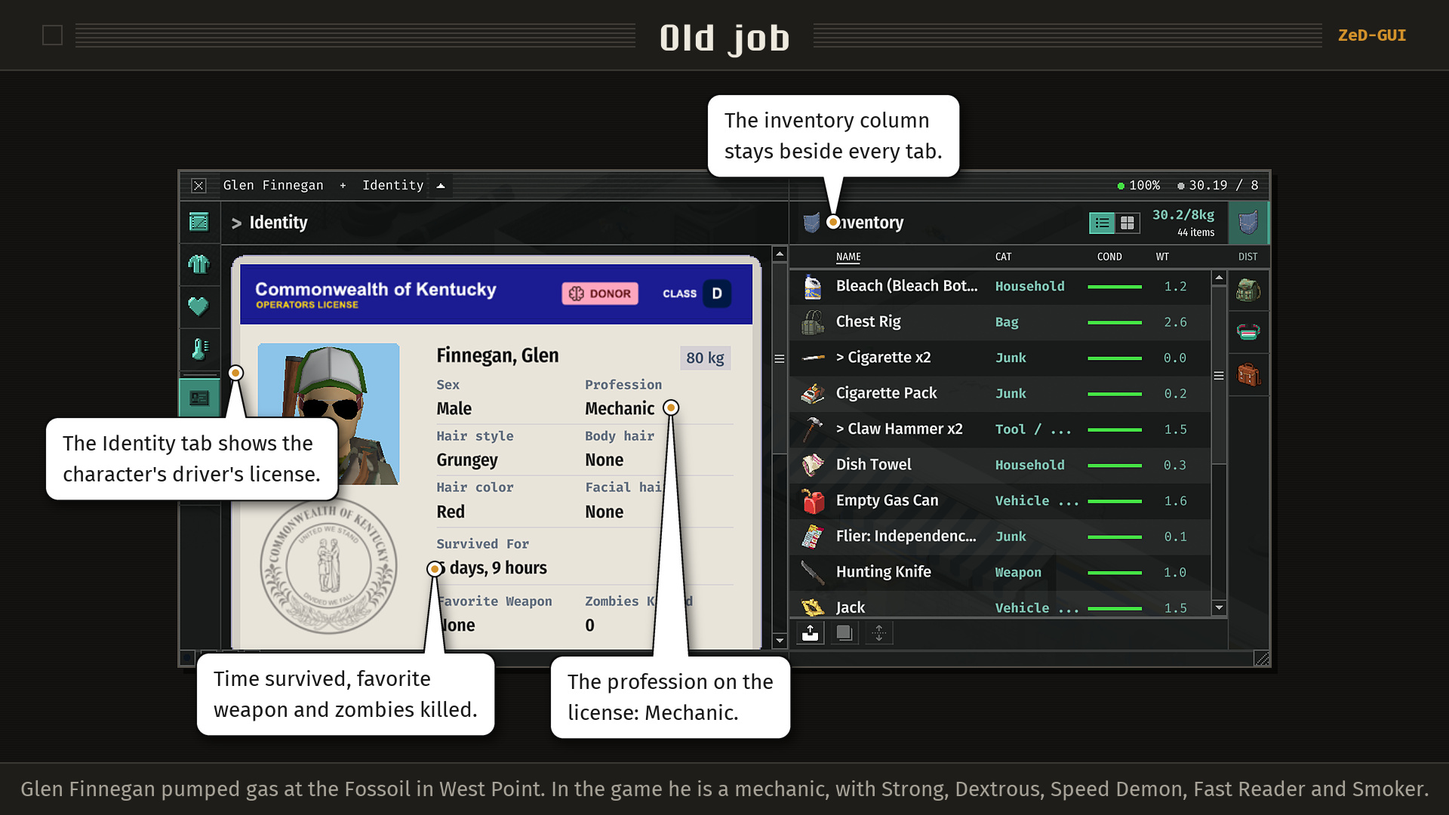
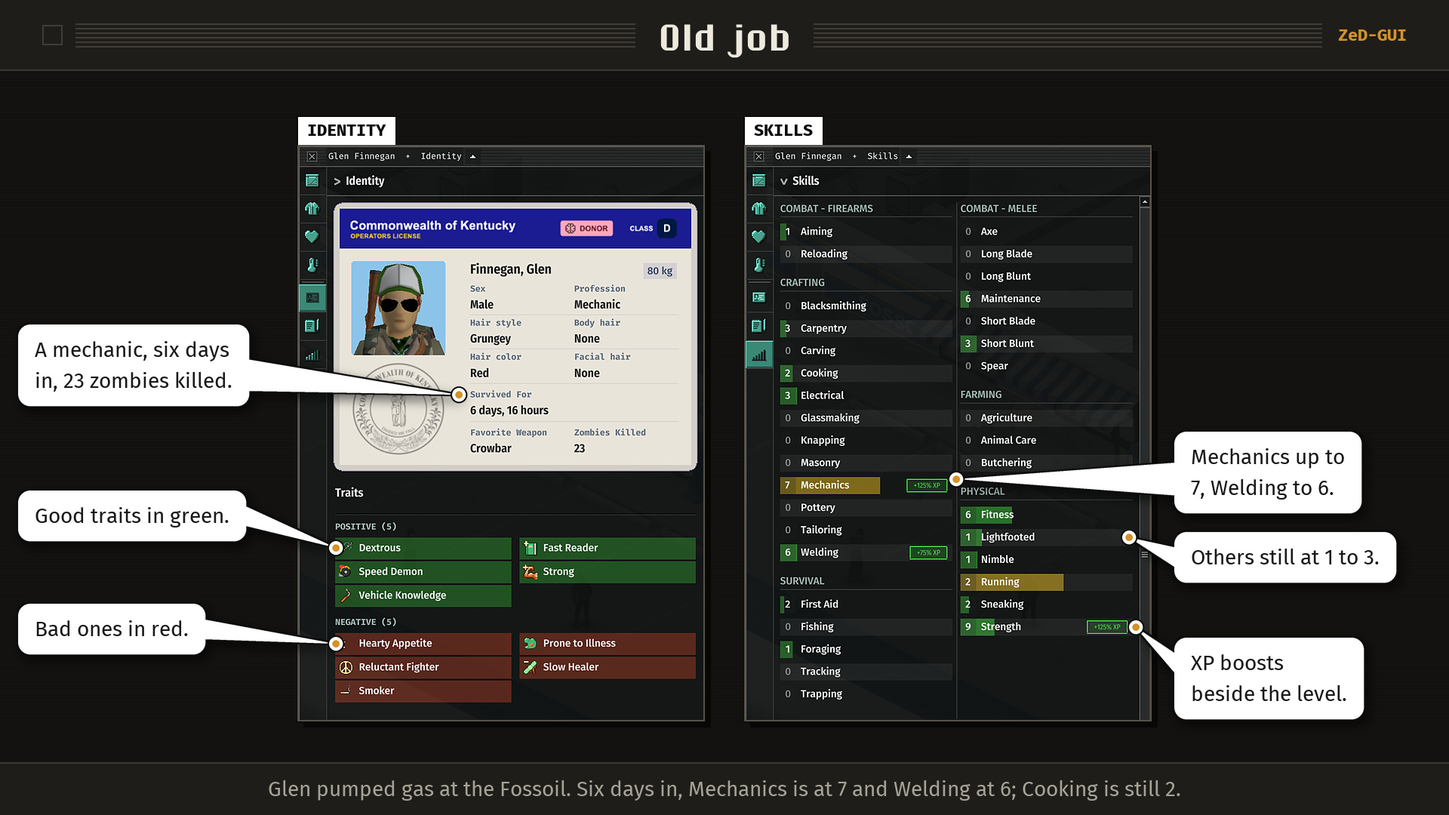
Workshop gallery: Old job card shows the traits and the skills
Director, Oct 22: "if we are talking about it, we show it." The card talked
about traits and a mechanic's skills but showed only the license.

- gallery_story_who.lua (new): runs between the story stage and teardown.
  Gives Glen six days' worth of skills (Mechanics 7, Welding and Maintenance 6,
  Fitness 6, the rest 1 to 3), 23 kills and the Crowbar, makes the Character
  window tall enough for the whole list, takes story_00a_identity_tall and
  story_00b_skills_tall, then puts the height, kills and favorite back.
- shots.json: old_job is now two crops, IDENTITY and SKILLS, with six balloons
  in the margins (traits green and red, Mechanics 7, the rest 1 to 3, XP
  boosts) and a caption that fits the strip.
- out/02_old_job.jpg, contact.png, zed_workshop_page_v3.html rebuilt.

Claude-Session: https://claude.ai/code/session_015Lv8fXDH1kuxg46sEw6iLh

diff --git a/ZeDUI/mockups/zed_workshop_page_v3.html b/ZeDUI/mockups/zed_workshop_page_v3.html
@@ -165,7 +165,7 @@ the tester build's text. Click any picture to see it full size.</p>
 <div class="lb" id="lb"><img id="lbimg" alt=""></div>
 
 <script>
-const D = {"layout": "[img]IMG_BASE/title.png[/img]\nZeD-GUI replaces the inventory, the character and loot windows, the HUD and the menus for Build 42. The style is based on a 1993 Mac. It works with a controller and with a mouse and keyboard.\n\n[img]IMG_BASE/hero.jpg[/img]\n\n[img]IMG_BASE/h_before_you_subscribe.png[/img]\n[list]\n[*][b]Build 42 only.[/b] Tested on 42.21. It does not run on Build 41.\n[*][b]Tested in single player.[/b] It has not been tested in multiplayer. If you try it on a server, report what happened.\n[*][b]It replaces the game's inventory and character windows.[/b] Buttons that other mods add to those windows do not show while ZeD-GUI is on. Mods that use the game's own systems (context menu options, container buttons, items, recipes) work. The compatibility discussion has the list.\n[*][b]It adds one item:[/b] a steel digital watch in the loot. If you remove ZeD-GUI from a save, those watches are removed too. Everything else is interface and can be added or removed at any time.\n[*][b]Text is in English.[/b] Where the game already has a word or phrase, ZeD-GUI uses the game's translation. ZeD-GUI's own text is in one file for translators.\n[/list]\n\n[img]IMG_BASE/h_windows.png[/img]\n[b]Character window.[/b] Tabs for loot, equipment, health, temperature, ID, journal, skills and the radio you carry.\n\n[b]World window.[/b] Tabs for loot, crafting (at a bench or station near you), building, furniture, maps, foraging, animals, radios nearby and the vehicle you are next to.\n\nOpen containers show as columns side by side. Either window's side panel can be rolled up into its title bar.\n\n[img]IMG_BASE/stocking_shelves.jpg[/img]\n\n[b]Cards.[/b] Click an item, a generator, a campfire, a farm plot, a trough, a padlock or a liquid to open its card. The card lists what it is, the actions you can take and the reason an action is not available.\n\n[img]IMG_BASE/item_cards.jpg[/img]\n\n[img]IMG_BASE/h_hud.png[/img]\n[list]\n[*][b]Belt:[/b] your hands, and the attachment slots of the gear you wear, on a strap drawn in the gear's material.\n[*][b]Watch:[/b] a worn watch shows on the belt. Click it for the full watch: time, date, temperature, alarm and stopwatch.\n[*][b]Dashboard:[/b] shows when you drive. The radio in the dashboard opens up close.\n[*][b]Moodles:[/b] placed right, left or above the belt.\n[*][b]Action bar:[/b] shows the current action and the queue in words, or as ten segments.\n[/list]\n\n[img]IMG_BASE/smoke_break.jpg[/img]\n\n[img]IMG_BASE/h_maps.png[/img]\nThree styles: survey, color and a paper road map. Flyers you have read are pinned on the map. Notes use the game's map notes, so they also show on the game's map.\n\n[img]IMG_BASE/the_route.jpg[/img]\n\n[img]IMG_BASE/h_menus.png[/img]\nThe main menu is a desk with a monitor. Load, new game, mods, options, sandbox, character creation and server settings open as windows on the monitor. They use the game's own menu functions. Mods lists conflicts between mods (two mods changing the same file, item or recipe) and which one loads last.\n\n[img]IMG_BASE/desk.jpg[/img]\n\n[img]IMG_BASE/h_controller.png[/img]\nThe controller scheme was designed by a player who plays on a controller.\n[list]\n[*]The D-pad moves between controls. A is left click, B is right click. X and Y open menus.\n[*]Aiming with the right stick hides both windows at once and returns control to the game. Press Y to show them again.\n[*]Camera zoom is a bumper chord: hold one bumper and tap the other. Hold LB and tap RB to zoom out. Hold RB and tap LB to zoom in. Each tap is one step.\n[*]Map: RT zooms in, LT zooms out. The left stick moves the cursor, and pushing it to an edge pans the map.\n[*]If your Steam Input layout binds the bumpers to zoom, remove those bindings. ZeD-GUI handles the zoom itself.\n[/list]\n\n[img]IMG_BASE/customers.jpg[/img]\n\n[img]IMG_BASE/h_options.png[/img]\nDark, light or high contrast theme, nine accent colors, two text sizes, and a UI scale setting. Auto picks the scale from the screen height.\n\n[img]IMG_BASE/themes.jpg[/img]\n\n[img]IMG_BASE/h_getting_started.png[/img]\n[olist]\n[*]Subscribe.\n[*]Main menu, Mods: turn on [b]ZeD-GUI[/b]. Put it after other interface mods in the load order.\n[*]Start or continue a game.\n[*]Options, Mods, ZeD-GUI: set the theme, accent, text size, scale, moodle position and action bar.\n[*]The inventory key opens the Character window. The loot key opens the World window. Controller buttons are the same as in the game.\n[/olist]\n\n[img]IMG_BASE/h_reporting_a_problem.png[/img]\nPost in the [b]Bug reports[/b] discussion. Include:\n[list]\n[*]Your game version and the ZeD-GUI version (the desk's ZeD menu, About).\n[*]Your mod list.\n[*]What you did, what you expected, and what happened. Add a screenshot if you can.\n[*]Your console.txt: [i]C:\\Users\\(you)\\Zomboid\\console.txt[/i] on Windows, [i]~/Zomboid/console.txt[/i] on Linux and macOS. Upload it to a paste site and post the link.\n[/list]\n[b]Safe mode:[/b] if ZeD-GUI stops you from playing, turn on Options, Mods, ZeD-GUI, Safe mode. The game's own screens return.\n\n[img]IMG_BASE/h_requests_add_ons_and_translations.png[/img]\n[list]\n[*][b]Requests:[/b] the Requests discussion.\n[*][b]Add-ons:[/b] the Add-on makers discussion has the guides. Watches can be added now.\n[*][b]Translations:[/b] the Translations discussion. Translating needs text files only.\n[/list]\n\n[img]IMG_BASE/h_server_admins.png[/img]\nWorkshop ID: (after the first upload)\nMod ID: ZeD_UI\n[code]WorkshopItems=(Workshop ID)\nMods=ZeD_UI\\[/code]\nEvery player needs it, because it adds an item.\n\n[img]IMG_BASE/h_credits.png[/img]\nDesign: Hermit. Fonts: Fira Sans and Fira Mono (SIL Open Font License). Icons: sources and licences are listed in the credits file.\n\nProject Zomboid is made by The Indie Stone. ZeD-GUI is a fan-made mod built on the game's own systems, and is not affiliated with The Indie Stone or Apple.\n", "text": "[h1]ZeD-GUI [B42][/h1]\nZeD-GUI replaces the inventory, the character and loot windows, the HUD and the menus for Build 42. The style is based on a 1993 Mac. It works with a controller and with a mouse and keyboard.\n\n[h2]Before you subscribe[/h2]\n[list]\n[*][b]Build 42 only.[/b] Tested on 42.21. It does not run on Build 41.\n[*][b]Tested in single player.[/b] It has not been tested in multiplayer. If you try it on a server, report what happened.\n[*][b]It replaces the game's inventory and character windows.[/b] Buttons that other mods add to those windows do not show while ZeD-GUI is on. Mods that use the game's own systems (context menu options, container buttons, items, recipes) work. The compatibility discussion has the list.\n[*][b]It adds one item:[/b] a steel digital watch in the loot. If you remove ZeD-GUI from a save, those watches are removed too. Everything else is interface and can be added or removed at any time.\n[*][b]Text is in English.[/b] Where the game already has a word or phrase, ZeD-GUI uses the game's translation. ZeD-GUI's own text is in one file for translators.\n[/list]\n\n[h2]Windows[/h2]\n[b]Character window.[/b] Tabs for loot, equipment, health, temperature, ID, journal, skills and the radio you carry.\n\n[b]World window.[/b] Tabs for loot, crafting (at a bench or station near you), building, furniture, maps, foraging, animals, radios nearby and the vehicle you are next to.\n\nOpen containers show as columns side by side. Either window's side panel can be rolled up into its title bar.\n\n[b]Cards.[/b] Click an item, a generator, a campfire, a farm plot, a trough, a padlock or a liquid to open its card. The card lists what it is, the actions you can take and the reason an action is not available.\n\n[h2]HUD[/h2]\n[list]\n[*][b]Belt:[/b] your hands, and the attachment slots of the gear you wear, on a strap drawn in the gear's material.\n[*][b]Watch:[/b] a worn watch shows on the belt. Click it for the full watch: time, date, temperature, alarm and stopwatch.\n[*][b]Dashboard:[/b] shows when you drive. The radio in the dashboard opens up close.\n[*][b]Moodles:[/b] placed right, left or above the belt.\n[*][b]Action bar:[/b] shows the current action and the queue in words, or as ten segments.\n[/list]\n\n[h2]Maps[/h2]\nThree styles: survey, color and a paper road map. Flyers you have read are pinned on the map. Notes use the game's map notes, so they also show on the game's map.\n\n[h2]Menus[/h2]\nThe main menu is a desk with a monitor. Load, new game, mods, options, sandbox, character creation and server settings open as windows on the monitor. They use the game's own menu functions. Mods lists conflicts between mods (two mods changing the same file, item or recipe) and which one loads last.\n\n[h2]Controller[/h2]\nThe controller scheme was designed by a player who plays on a controller.\n[list]\n[*]The D-pad moves between controls. A is left click, B is right click. X and Y open menus.\n[*]Aiming with the right stick hides both windows at once and returns control to the game. Press Y to show them again.\n[*]Camera zoom is a bumper chord: hold one bumper and tap the other. Hold LB and tap RB to zoom out. Hold RB and tap LB to zoom in. Each tap is one step.\n[*]Map: RT zooms in, LT zooms out. The left stick moves the cursor, and pushing it to an edge pans the map.\n[*]If your Steam Input layout binds the bumpers to zoom, remove those bindings. ZeD-GUI handles the zoom itself.\n[/list]\n\n[h2]Options[/h2]\nDark, light or high contrast theme, nine accent colors, two text sizes, and a UI scale setting. Auto picks the scale from the screen height.\n\n[h2]Getting started[/h2]\n[olist]\n[*]Subscribe.\n[*]Main menu, Mods: turn on [b]ZeD-GUI[/b]. Put it after other interface mods in the load order.\n[*]Start or continue a game.\n[*]Options, Mods, ZeD-GUI: set the theme, accent, text size, scale, moodle position and action bar.\n[*]The inventory key opens the Character window. The loot key opens the World window. Controller buttons are the same as in the game.\n[/olist]\n\n[h2]Reporting a problem[/h2]\nPost in the [b]Bug reports[/b] discussion. Include:\n[list]\n[*]Your game version and the ZeD-GUI version (the desk's ZeD menu, About).\n[*]Your mod list.\n[*]What you did, what you expected, and what happened. Add a screenshot if you can.\n[*]Your console.txt: [i]C:\\Users\\(you)\\Zomboid\\console.txt[/i] on Windows, [i]~/Zomboid/console.txt[/i] on Linux and macOS. Upload it to a paste site and post the link.\n[/list]\n[b]Safe mode:[/b] if ZeD-GUI stops you from playing, turn on Options, Mods, ZeD-GUI, Safe mode. The game's own screens return.\n\n[h2]Requests, add-ons and translations[/h2]\n[list]\n[*][b]Requests:[/b] the Requests discussion.\n[*][b]Add-ons:[/b] the Add-on makers discussion has the guides. Watches can be added now.\n[*][b]Translations:[/b] the Translations discussion. Translating needs text files only.\n[/list]\n\n[h2]Server admins[/h2]\nWorkshop ID: (after the first upload)\nMod ID: ZeD_UI\n[code]WorkshopItems=(Workshop ID)\nMods=ZeD_UI\\[/code]\nEvery player needs it, because it adds an item.\n\n[h2]Credits[/h2]\nDesign: Hermit. Fonts: Fira Sans and Fira Mono (SIL Open Font License). Icons: sources and licences are listed in the credits file.\n\nProject Zomboid is made by The Indie Stone. ZeD-GUI is a fan-made mod built on the game's own systems, and is not affiliated with The Indie Stone or Apple.\n", "tester": "[h1]ZeD-GUI [B42] | tester build 0.2.0-t1[/h1]\n[b]This is a test build.[/b] It is unlisted. Report problems in the pinned [b]Bug reports[/b] discussion, one post per problem.\n\nZeD-GUI replaces the inventory, the character and loot windows, the HUD and the menus for Build 42. The style is based on a 1993 Mac. It works with a controller and with a mouse and keyboard.\n\n[h2]Before you subscribe[/h2]\n[list]\n[*][b]Build 42 only.[/b] Tested on 42.21. It does not run on Build 41.\n[*][b]Use a new game or a copy of a save.[/b] This is a test build.\n[*][b]Tested in single player.[/b] It has not been tested in multiplayer. If you try it on a server, report what happened.\n[*][b]It replaces the game's inventory and character windows.[/b] Buttons that other mods add to those windows do not show while ZeD-GUI is on. Mods that use the game's own systems (context menu options, container buttons, items, recipes) work.\n[*][b]It adds one item:[/b] a steel digital watch in the loot. If you remove ZeD-GUI from a save, those watches are removed too. Everything else is interface and can be added or removed at any time.\n[*][b]Text is in English.[/b] Where the game already has a word or phrase, ZeD-GUI uses the game's translation. ZeD-GUI's own text is in one file for translators.\n[/list]\n\n[h2]Windows[/h2]\n[b]Character window.[/b] Tabs for loot, equipment, health, temperature, ID, journal, skills and the radio you carry.\n\n[b]World window.[/b] Tabs for loot, crafting (at a bench or station near you), building, furniture, maps, foraging, animals, radios nearby and the vehicle you are next to.\n\nOpen containers show as columns side by side. Either window's side panel can be rolled up into its title bar.\n\n[b]Cards.[/b] Click an item, a generator, a campfire, a farm plot, a trough, a padlock or a liquid to open its card. The card lists what it is, the actions you can take and the reason an action is not available.\n\n[h2]HUD[/h2]\n[list]\n[*][b]Belt:[/b] your hands, and the attachment slots of the gear you wear, on a strap drawn in the gear's material.\n[*][b]Watch:[/b] a worn watch shows on the belt. Click it for the full watch: time, date, temperature, alarm and stopwatch.\n[*][b]Dashboard:[/b] shows when you drive. The radio in the dashboard opens up close.\n[*][b]Moodles:[/b] placed right, left or above the belt.\n[*][b]Action bar:[/b] shows the current action and the queue in words, or as ten segments.\n[/list]\n\n[h2]Maps[/h2]\nThree styles: survey, color and a paper road map. Flyers you have read are pinned on the map. Notes use the game's map notes, so they also show on the game's map.\n\n[h2]Menus[/h2]\nThe main menu is a desk with a monitor. Load, new game, mods, options, sandbox, character creation and server settings open as windows on the monitor. They use the game's own menu functions.\n\n[h2]Controller[/h2]\nThe controller scheme was designed by a player who plays on a controller.\n[list]\n[*]The D-pad moves between controls. A is left click, B is right click. X and Y open menus.\n[*]Aiming with the right stick hides both windows at once and returns control to the game. Press Y to show them again.\n[*]Camera zoom is a bumper chord: hold one bumper and tap the other. Hold LB and tap RB to zoom out. Hold RB and tap LB to zoom in. Each tap is one step.\n[*]Map: RT zooms in, LT zooms out. The left stick moves the cursor, and pushing it to an edge pans the map.\n[*]If your Steam Input layout binds the bumpers to zoom, remove those bindings. ZeD-GUI handles the zoom itself.\n[/list]\n\n[h2]Options[/h2]\nDark, light or high contrast theme, nine accent colors, two text sizes, and a UI scale setting. Auto picks the scale from the screen height.\n\n[h2]Getting started[/h2]\n[olist]\n[*]Subscribe.\n[*]Main menu, Mods: turn on [b]ZeD-GUI[/b]. Put it after other interface mods in the load order.\n[*]Start a new game, or load a copy of a save.\n[*]Options, Mods, ZeD-GUI: set the theme, accent, text size, scale, moodle position and action bar.\n[*]The inventory key opens the Character window. The loot key opens the World window. Controller buttons are the same as in the game.\n[/olist]\n\n[h2]Reporting a problem[/h2]\nPost in the pinned [b]Bug reports[/b] discussion. Include:\n[list]\n[*]The version: 0.2.0-t1. It is shown in Mods, and in the desk's ZeD menu under About.\n[*]Your game version and your mod list.\n[*]What you did, what you expected, and what happened. Add a screenshot if you can.\n[*]Your console.txt: [i]C:\\Users\\(you)\\Zomboid\\console.txt[/i] on Windows, [i]~/Zomboid/console.txt[/i] on Linux and macOS. The game replaces this file each time it starts, so copy it before you restart. Upload it to a paste site and post the link.\n[/list]\n[b]Safe mode:[/b] if ZeD-GUI stops you from playing, turn on Options, Mods, ZeD-GUI, Safe mode. The game's own screens return. Mention it in your report.\nPlay without the [i]-debug[/i] launch option unless asked. With it, the game stops on every Lua error, including errors from other mods.\n\n[h2]Server admins[/h2]\nMod ID: ZeD_UI\nEvery player needs it, because it adds an item.\n\n[h2]Credits[/h2]\nDesign: Hermit. Fonts: Fira Sans and Fira Mono (SIL Open Font License). Icons: sources and licences are listed in the credits file.\n\nProject Zomboid is made by The Indie Stone. ZeD-GUI is a fan-made mod built on the game's own systems, and is not affiliated with The Indie Stone or Apple.\n", "testerName": "tester_description_0.2.0-t1.bbcode", "note": "0.2.0-t1: the first tester build. Everything is new to you, so there is no list of changes yet. Please report anything odd in the pinned Bug reports discussion.", "noteName": "0.2.0-t1", "sampleBase": "https://raw.githubusercontent.com/hermit-the-trog/ZeD.UI/main/ZeDUI/workshop/desc", "max": 8000, "gallery": [{"t": "Hero", "c": "", "src": "../workshop/shots/out/01_hero.jpg"}, {"t": "Old job", "c": "Glen Finnegan pumped gas at the Fossoil in West Point. In the game he is a mechanic, with Strong, Dextrous, Speed Demon, Fast Reader and Smoker.", "src": "../workshop/shots/out/02_old_job.jpg"}, {"t": "The plan", "c": "A flyer for the old station, and a note in the journal.", "src": "../workshop/shots/out/03_the_plan.jpg"}, {"t": "The route", "c": "World window, Maps tab. On a controller, hold one bumper and tap the other to zoom the camera: LB then RB zooms out, RB then LB zooms in.", "src": "../workshop/shots/out/04_the_route.jpg"}, {"t": "Driving in", "c": "Seat chooser and dashboard.", "src": "../workshop/shots/out/05_driving_in.jpg"}, {"t": "Fixing the car", "c": "World window, Vehicle tab.", "src": "../workshop/shots/out/06_fixing_the_car.jpg"}, {"t": "Barricading", "c": "Context menu on the front window, and the action bar.", "src": "../workshop/shots/out/07_barricading.jpg"}, {"t": "Cleaning up", "c": "Cleaning the floor with bleach and a dish towel.", "src": "../workshop/shots/out/08_cleaning_up.jpg"}, {"t": "Stocking shelves", "c": "Character window on the left, World window on the right, with three shelves and the ground.", "src": "../workshop/shots/out/09_stocking_shelves.jpg"}, {"t": "Open for business", "c": "The Fossoil's colors: light theme and blue accent, set from the buttons at the bottom of the window.", "src": "../workshop/shots/out/10_open_for_business.jpg"}, {"t": "Pumping gas", "c": "Filling a gas can at the pump, and the wagon's tank after refueling.", "src": "../workshop/shots/out/11_pumping_gas.jpg"}, {"t": "Customers", "c": "", "src": "../workshop/shots/out/12_customers.jpg"}, {"t": "Smoke break", "c": "", "src": "../workshop/shots/out/13_smoke_break.jpg"}, {"t": "Night shift", "c": "Dark theme with the blue accent, the dashboard at night, and the watch light.", "src": "../workshop/shots/out/14_night_shift.jpg"}, {"t": "Inventory and loot", "c": "In ZeD, open containers sit side by side as columns. Drag an item to another column to move it.", "src": "../workshop/shots/out/15_inventory_compare.jpg"}, {"t": "Item cards", "c": "Cards also open for generators, campfires, farm plots, troughs, padlocks and liquids.", "src": "../workshop/shots/out/16_item_cards.jpg"}, {"t": "Context menus", "c": "Choose the strip or the list in Options, ZeD setup.", "src": "../workshop/shots/out/17_context_menus.jpg"}, {"t": "Thermal tab", "c": "Character window, Thermal tab.", "src": "../workshop/shots/out/18_thermal.jpg"}, {"t": "Watches", "c": "The small watch on the belt shows the watch worn on the wrist.", "src": "../workshop/shots/out/19_watches.jpg"}, {"t": "Themes and accents", "c": "Three base themes and nine accent colors, shown on the Character window. Each window can also have its own accent.", "src": "../workshop/shots/out/20_themes.jpg"}, {"t": "Wallpapers", "c": "Desk, Settings menu: the picture on the monitor.", "src": "../workshop/shots/out/21_wallpapers.jpg"}, {"t": "Desk", "c": "", "src": "../workshop/shots/out/22_desk.jpg"}], "preview": "../workshop/thumbnail/preview.png", "imgs": {"customers.jpg": "../workshop/desc/customers.jpg", "desk.jpg": "../workshop/desc/desk.jpg", "h_before_you_subscribe.png": "../workshop/desc/h_before_you_subscribe.png", "h_controller.png": "../workshop/desc/h_controller.png", "h_credits.png": "../workshop/desc/h_credits.png", "h_getting_started.png": "../workshop/desc/h_getting_started.png", "h_hud.png": "../workshop/desc/h_hud.png", "h_maps.png": "../workshop/desc/h_maps.png", "h_menus.png": "../workshop/desc/h_menus.png", "h_options.png": "../workshop/desc/h_options.png", "h_reporting_a_problem.png": "../workshop/desc/h_reporting_a_problem.png", "h_requests_add_ons_and_translations.png": "../workshop/desc/h_requests_add_ons_and_translations.png", "h_server_admins.png": "../workshop/desc/h_server_admins.png", "h_windows.png": "../workshop/desc/h_windows.png", "hero.jpg": "../workshop/desc/hero.jpg", "item_cards.jpg": "../workshop/desc/item_cards.jpg", "smoke_break.jpg": "../workshop/desc/smoke_break.jpg", "stocking_shelves.jpg": "../workshop/desc/stocking_shelves.jpg", "the_route.jpg": "../workshop/desc/the_route.jpg", "themes.jpg": "../workshop/desc/themes.jpg", "title.png": "../workshop/desc/title.png", "full/01_hero.jpg": "../workshop/shots/out/01_hero.jpg", "full/02_old_job.jpg": "../workshop/shots/out/02_old_job.jpg", "full/03_the_plan.jpg": "../workshop/shots/out/03_the_plan.jpg", "full/04_the_route.jpg": "../workshop/shots/out/04_the_route.jpg", "full/05_driving_in.jpg": "../workshop/shots/out/05_driving_in.jpg", "full/06_fixing_the_car.jpg": "../workshop/shots/out/06_fixing_the_car.jpg", "full/07_barricading.jpg": "../workshop/shots/out/07_barricading.jpg", "full/08_cleaning_up.jpg": "../workshop/shots/out/08_cleaning_up.jpg", "full/09_stocking_shelves.jpg": "../workshop/shots/out/09_stocking_shelves.jpg", "full/10_open_for_business.jpg": "../workshop/shots/out/10_open_for_business.jpg", "full/11_pumping_gas.jpg": "../workshop/shots/out/11_pumping_gas.jpg", "full/12_customers.jpg": "../workshop/shots/out/12_customers.jpg", "full/13_smoke_break.jpg": "../workshop/shots/out/13_smoke_break.jpg", "full/14_night_shift.jpg": "../workshop/shots/out/14_night_shift.jpg", "full/15_inventory_compare.jpg": "../workshop/shots/out/15_inventory_compare.jpg", "full/16_item_cards.jpg": "../workshop/shots/out/16_item_cards.jpg", "full/17_context_menus.jpg": "../workshop/shots/out/17_context_menus.jpg", "full/18_thermal.jpg": "../workshop/shots/out/18_thermal.jpg", "full/19_watches.jpg": "../workshop/shots/out/19_watches.jpg", "full/20_themes.jpg": "../workshop/shots/out/20_themes.jpg", "full/21_wallpapers.jpg": "../workshop/shots/out/21_wallpapers.jpg", "full/22_desk.jpg": "../workshop/shots/out/22_desk.jpg"}};
+const D = {"layout": "[img]IMG_BASE/title.png[/img]\nZeD-GUI replaces the inventory, the character and loot windows, the HUD and the menus for Build 42. The style is based on a 1993 Mac. It works with a controller and with a mouse and keyboard.\n\n[img]IMG_BASE/hero.jpg[/img]\n\n[img]IMG_BASE/h_before_you_subscribe.png[/img]\n[list]\n[*][b]Build 42 only.[/b] Tested on 42.21. It does not run on Build 41.\n[*][b]Tested in single player.[/b] It has not been tested in multiplayer. If you try it on a server, report what happened.\n[*][b]It replaces the game's inventory and character windows.[/b] Buttons that other mods add to those windows do not show while ZeD-GUI is on. Mods that use the game's own systems (context menu options, container buttons, items, recipes) work. The compatibility discussion has the list.\n[*][b]It adds one item:[/b] a steel digital watch in the loot. If you remove ZeD-GUI from a save, those watches are removed too. Everything else is interface and can be added or removed at any time.\n[*][b]Text is in English.[/b] Where the game already has a word or phrase, ZeD-GUI uses the game's translation. ZeD-GUI's own text is in one file for translators.\n[/list]\n\n[img]IMG_BASE/h_windows.png[/img]\n[b]Character window.[/b] Tabs for loot, equipment, health, temperature, ID, journal, skills and the radio you carry.\n\n[b]World window.[/b] Tabs for loot, crafting (at a bench or station near you), building, furniture, maps, foraging, animals, radios nearby and the vehicle you are next to.\n\nOpen containers show as columns side by side. Either window's side panel can be rolled up into its title bar.\n\n[img]IMG_BASE/stocking_shelves.jpg[/img]\n\n[b]Cards.[/b] Click an item, a generator, a campfire, a farm plot, a trough, a padlock or a liquid to open its card. The card lists what it is, the actions you can take and the reason an action is not available.\n\n[img]IMG_BASE/item_cards.jpg[/img]\n\n[img]IMG_BASE/h_hud.png[/img]\n[list]\n[*][b]Belt:[/b] your hands, and the attachment slots of the gear you wear, on a strap drawn in the gear's material.\n[*][b]Watch:[/b] a worn watch shows on the belt. Click it for the full watch: time, date, temperature, alarm and stopwatch.\n[*][b]Dashboard:[/b] shows when you drive. The radio in the dashboard opens up close.\n[*][b]Moodles:[/b] placed right, left or above the belt.\n[*][b]Action bar:[/b] shows the current action and the queue in words, or as ten segments.\n[/list]\n\n[img]IMG_BASE/smoke_break.jpg[/img]\n\n[img]IMG_BASE/h_maps.png[/img]\nThree styles: survey, color and a paper road map. Flyers you have read are pinned on the map. Notes use the game's map notes, so they also show on the game's map.\n\n[img]IMG_BASE/the_route.jpg[/img]\n\n[img]IMG_BASE/h_menus.png[/img]\nThe main menu is a desk with a monitor. Load, new game, mods, options, sandbox, character creation and server settings open as windows on the monitor. They use the game's own menu functions. Mods lists conflicts between mods (two mods changing the same file, item or recipe) and which one loads last.\n\n[img]IMG_BASE/desk.jpg[/img]\n\n[img]IMG_BASE/h_controller.png[/img]\nThe controller scheme was designed by a player who plays on a controller.\n[list]\n[*]The D-pad moves between controls. A is left click, B is right click. X and Y open menus.\n[*]Aiming with the right stick hides both windows at once and returns control to the game. Press Y to show them again.\n[*]Camera zoom is a bumper chord: hold one bumper and tap the other. Hold LB and tap RB to zoom out. Hold RB and tap LB to zoom in. Each tap is one step.\n[*]Map: RT zooms in, LT zooms out. The left stick moves the cursor, and pushing it to an edge pans the map.\n[*]If your Steam Input layout binds the bumpers to zoom, remove those bindings. ZeD-GUI handles the zoom itself.\n[/list]\n\n[img]IMG_BASE/customers.jpg[/img]\n\n[img]IMG_BASE/h_options.png[/img]\nDark, light or high contrast theme, nine accent colors, two text sizes, and a UI scale setting. Auto picks the scale from the screen height.\n\n[img]IMG_BASE/themes.jpg[/img]\n\n[img]IMG_BASE/h_getting_started.png[/img]\n[olist]\n[*]Subscribe.\n[*]Main menu, Mods: turn on [b]ZeD-GUI[/b]. Put it after other interface mods in the load order.\n[*]Start or continue a game.\n[*]Options, Mods, ZeD-GUI: set the theme, accent, text size, scale, moodle position and action bar.\n[*]The inventory key opens the Character window. The loot key opens the World window. Controller buttons are the same as in the game.\n[/olist]\n\n[img]IMG_BASE/h_reporting_a_problem.png[/img]\nPost in the [b]Bug reports[/b] discussion. Include:\n[list]\n[*]Your game version and the ZeD-GUI version (the desk's ZeD menu, About).\n[*]Your mod list.\n[*]What you did, what you expected, and what happened. Add a screenshot if you can.\n[*]Your console.txt: [i]C:\\Users\\(you)\\Zomboid\\console.txt[/i] on Windows, [i]~/Zomboid/console.txt[/i] on Linux and macOS. Upload it to a paste site and post the link.\n[/list]\n[b]Safe mode:[/b] if ZeD-GUI stops you from playing, turn on Options, Mods, ZeD-GUI, Safe mode. The game's own screens return.\n\n[img]IMG_BASE/h_requests_add_ons_and_translations.png[/img]\n[list]\n[*][b]Requests:[/b] the Requests discussion.\n[*][b]Add-ons:[/b] the Add-on makers discussion has the guides. Watches can be added now.\n[*][b]Translations:[/b] the Translations discussion. Translating needs text files only.\n[/list]\n\n[img]IMG_BASE/h_server_admins.png[/img]\nWorkshop ID: (after the first upload)\nMod ID: ZeD_UI\n[code]WorkshopItems=(Workshop ID)\nMods=ZeD_UI\\[/code]\nEvery player needs it, because it adds an item.\n\n[img]IMG_BASE/h_credits.png[/img]\nDesign: Hermit. Fonts: Fira Sans and Fira Mono (SIL Open Font License). Icons: sources and licences are listed in the credits file.\n\nProject Zomboid is made by The Indie Stone. ZeD-GUI is a fan-made mod built on the game's own systems, and is not affiliated with The Indie Stone or Apple.\n", "text": "[h1]ZeD-GUI [B42][/h1]\nZeD-GUI replaces the inventory, the character and loot windows, the HUD and the menus for Build 42. The style is based on a 1993 Mac. It works with a controller and with a mouse and keyboard.\n\n[h2]Before you subscribe[/h2]\n[list]\n[*][b]Build 42 only.[/b] Tested on 42.21. It does not run on Build 41.\n[*][b]Tested in single player.[/b] It has not been tested in multiplayer. If you try it on a server, report what happened.\n[*][b]It replaces the game's inventory and character windows.[/b] Buttons that other mods add to those windows do not show while ZeD-GUI is on. Mods that use the game's own systems (context menu options, container buttons, items, recipes) work. The compatibility discussion has the list.\n[*][b]It adds one item:[/b] a steel digital watch in the loot. If you remove ZeD-GUI from a save, those watches are removed too. Everything else is interface and can be added or removed at any time.\n[*][b]Text is in English.[/b] Where the game already has a word or phrase, ZeD-GUI uses the game's translation. ZeD-GUI's own text is in one file for translators.\n[/list]\n\n[h2]Windows[/h2]\n[b]Character window.[/b] Tabs for loot, equipment, health, temperature, ID, journal, skills and the radio you carry.\n\n[b]World window.[/b] Tabs for loot, crafting (at a bench or station near you), building, furniture, maps, foraging, animals, radios nearby and the vehicle you are next to.\n\nOpen containers show as columns side by side. Either window's side panel can be rolled up into its title bar.\n\n[b]Cards.[/b] Click an item, a generator, a campfire, a farm plot, a trough, a padlock or a liquid to open its card. The card lists what it is, the actions you can take and the reason an action is not available.\n\n[h2]HUD[/h2]\n[list]\n[*][b]Belt:[/b] your hands, and the attachment slots of the gear you wear, on a strap drawn in the gear's material.\n[*][b]Watch:[/b] a worn watch shows on the belt. Click it for the full watch: time, date, temperature, alarm and stopwatch.\n[*][b]Dashboard:[/b] shows when you drive. The radio in the dashboard opens up close.\n[*][b]Moodles:[/b] placed right, left or above the belt.\n[*][b]Action bar:[/b] shows the current action and the queue in words, or as ten segments.\n[/list]\n\n[h2]Maps[/h2]\nThree styles: survey, color and a paper road map. Flyers you have read are pinned on the map. Notes use the game's map notes, so they also show on the game's map.\n\n[h2]Menus[/h2]\nThe main menu is a desk with a monitor. Load, new game, mods, options, sandbox, character creation and server settings open as windows on the monitor. They use the game's own menu functions. Mods lists conflicts between mods (two mods changing the same file, item or recipe) and which one loads last.\n\n[h2]Controller[/h2]\nThe controller scheme was designed by a player who plays on a controller.\n[list]\n[*]The D-pad moves between controls. A is left click, B is right click. X and Y open menus.\n[*]Aiming with the right stick hides both windows at once and returns control to the game. Press Y to show them again.\n[*]Camera zoom is a bumper chord: hold one bumper and tap the other. Hold LB and tap RB to zoom out. Hold RB and tap LB to zoom in. Each tap is one step.\n[*]Map: RT zooms in, LT zooms out. The left stick moves the cursor, and pushing it to an edge pans the map.\n[*]If your Steam Input layout binds the bumpers to zoom, remove those bindings. ZeD-GUI handles the zoom itself.\n[/list]\n\n[h2]Options[/h2]\nDark, light or high contrast theme, nine accent colors, two text sizes, and a UI scale setting. Auto picks the scale from the screen height.\n\n[h2]Getting started[/h2]\n[olist]\n[*]Subscribe.\n[*]Main menu, Mods: turn on [b]ZeD-GUI[/b]. Put it after other interface mods in the load order.\n[*]Start or continue a game.\n[*]Options, Mods, ZeD-GUI: set the theme, accent, text size, scale, moodle position and action bar.\n[*]The inventory key opens the Character window. The loot key opens the World window. Controller buttons are the same as in the game.\n[/olist]\n\n[h2]Reporting a problem[/h2]\nPost in the [b]Bug reports[/b] discussion. Include:\n[list]\n[*]Your game version and the ZeD-GUI version (the desk's ZeD menu, About).\n[*]Your mod list.\n[*]What you did, what you expected, and what happened. Add a screenshot if you can.\n[*]Your console.txt: [i]C:\\Users\\(you)\\Zomboid\\console.txt[/i] on Windows, [i]~/Zomboid/console.txt[/i] on Linux and macOS. Upload it to a paste site and post the link.\n[/list]\n[b]Safe mode:[/b] if ZeD-GUI stops you from playing, turn on Options, Mods, ZeD-GUI, Safe mode. The game's own screens return.\n\n[h2]Requests, add-ons and translations[/h2]\n[list]\n[*][b]Requests:[/b] the Requests discussion.\n[*][b]Add-ons:[/b] the Add-on makers discussion has the guides. Watches can be added now.\n[*][b]Translations:[/b] the Translations discussion. Translating needs text files only.\n[/list]\n\n[h2]Server admins[/h2]\nWorkshop ID: (after the first upload)\nMod ID: ZeD_UI\n[code]WorkshopItems=(Workshop ID)\nMods=ZeD_UI\\[/code]\nEvery player needs it, because it adds an item.\n\n[h2]Credits[/h2]\nDesign: Hermit. Fonts: Fira Sans and Fira Mono (SIL Open Font License). Icons: sources and licences are listed in the credits file.\n\nProject Zomboid is made by The Indie Stone. ZeD-GUI is a fan-made mod built on the game's own systems, and is not affiliated with The Indie Stone or Apple.\n", "tester": "[h1]ZeD-GUI [B42] | tester build 0.2.0-t1[/h1]\n[b]This is a test build.[/b] It is unlisted. Report problems in the pinned [b]Bug reports[/b] discussion, one post per problem.\n\nZeD-GUI replaces the inventory, the character and loot windows, the HUD and the menus for Build 42. The style is based on a 1993 Mac. It works with a controller and with a mouse and keyboard.\n\n[h2]Before you subscribe[/h2]\n[list]\n[*][b]Build 42 only.[/b] Tested on 42.21. It does not run on Build 41.\n[*][b]Use a new game or a copy of a save.[/b] This is a test build.\n[*][b]Tested in single player.[/b] It has not been tested in multiplayer. If you try it on a server, report what happened.\n[*][b]It replaces the game's inventory and character windows.[/b] Buttons that other mods add to those windows do not show while ZeD-GUI is on. Mods that use the game's own systems (context menu options, container buttons, items, recipes) work.\n[*][b]It adds one item:[/b] a steel digital watch in the loot. If you remove ZeD-GUI from a save, those watches are removed too. Everything else is interface and can be added or removed at any time.\n[*][b]Text is in English.[/b] Where the game already has a word or phrase, ZeD-GUI uses the game's translation. ZeD-GUI's own text is in one file for translators.\n[/list]\n\n[h2]Windows[/h2]\n[b]Character window.[/b] Tabs for loot, equipment, health, temperature, ID, journal, skills and the radio you carry.\n\n[b]World window.[/b] Tabs for loot, crafting (at a bench or station near you), building, furniture, maps, foraging, animals, radios nearby and the vehicle you are next to.\n\nOpen containers show as columns side by side. Either window's side panel can be rolled up into its title bar.\n\n[b]Cards.[/b] Click an item, a generator, a campfire, a farm plot, a trough, a padlock or a liquid to open its card. The card lists what it is, the actions you can take and the reason an action is not available.\n\n[h2]HUD[/h2]\n[list]\n[*][b]Belt:[/b] your hands, and the attachment slots of the gear you wear, on a strap drawn in the gear's material.\n[*][b]Watch:[/b] a worn watch shows on the belt. Click it for the full watch: time, date, temperature, alarm and stopwatch.\n[*][b]Dashboard:[/b] shows when you drive. The radio in the dashboard opens up close.\n[*][b]Moodles:[/b] placed right, left or above the belt.\n[*][b]Action bar:[/b] shows the current action and the queue in words, or as ten segments.\n[/list]\n\n[h2]Maps[/h2]\nThree styles: survey, color and a paper road map. Flyers you have read are pinned on the map. Notes use the game's map notes, so they also show on the game's map.\n\n[h2]Menus[/h2]\nThe main menu is a desk with a monitor. Load, new game, mods, options, sandbox, character creation and server settings open as windows on the monitor. They use the game's own menu functions.\n\n[h2]Controller[/h2]\nThe controller scheme was designed by a player who plays on a controller.\n[list]\n[*]The D-pad moves between controls. A is left click, B is right click. X and Y open menus.\n[*]Aiming with the right stick hides both windows at once and returns control to the game. Press Y to show them again.\n[*]Camera zoom is a bumper chord: hold one bumper and tap the other. Hold LB and tap RB to zoom out. Hold RB and tap LB to zoom in. Each tap is one step.\n[*]Map: RT zooms in, LT zooms out. The left stick moves the cursor, and pushing it to an edge pans the map.\n[*]If your Steam Input layout binds the bumpers to zoom, remove those bindings. ZeD-GUI handles the zoom itself.\n[/list]\n\n[h2]Options[/h2]\nDark, light or high contrast theme, nine accent colors, two text sizes, and a UI scale setting. Auto picks the scale from the screen height.\n\n[h2]Getting started[/h2]\n[olist]\n[*]Subscribe.\n[*]Main menu, Mods: turn on [b]ZeD-GUI[/b]. Put it after other interface mods in the load order.\n[*]Start a new game, or load a copy of a save.\n[*]Options, Mods, ZeD-GUI: set the theme, accent, text size, scale, moodle position and action bar.\n[*]The inventory key opens the Character window. The loot key opens the World window. Controller buttons are the same as in the game.\n[/olist]\n\n[h2]Reporting a problem[/h2]\nPost in the pinned [b]Bug reports[/b] discussion. Include:\n[list]\n[*]The version: 0.2.0-t1. It is shown in Mods, and in the desk's ZeD menu under About.\n[*]Your game version and your mod list.\n[*]What you did, what you expected, and what happened. Add a screenshot if you can.\n[*]Your console.txt: [i]C:\\Users\\(you)\\Zomboid\\console.txt[/i] on Windows, [i]~/Zomboid/console.txt[/i] on Linux and macOS. The game replaces this file each time it starts, so copy it before you restart. Upload it to a paste site and post the link.\n[/list]\n[b]Safe mode:[/b] if ZeD-GUI stops you from playing, turn on Options, Mods, ZeD-GUI, Safe mode. The game's own screens return. Mention it in your report.\nPlay without the [i]-debug[/i] launch option unless asked. With it, the game stops on every Lua error, including errors from other mods.\n\n[h2]Server admins[/h2]\nMod ID: ZeD_UI\nEvery player needs it, because it adds an item.\n\n[h2]Credits[/h2]\nDesign: Hermit. Fonts: Fira Sans and Fira Mono (SIL Open Font License). Icons: sources and licences are listed in the credits file.\n\nProject Zomboid is made by The Indie Stone. ZeD-GUI is a fan-made mod built on the game's own systems, and is not affiliated with The Indie Stone or Apple.\n", "testerName": "tester_description_0.2.0-t1.bbcode", "note": "0.2.0-t1: the first tester build. Everything is new to you, so there is no list of changes yet. Please report anything odd in the pinned Bug reports discussion.", "noteName": "0.2.0-t1", "sampleBase": "https://raw.githubusercontent.com/hermit-the-trog/ZeD.UI/main/ZeDUI/workshop/desc", "max": 8000, "gallery": [{"t": "Hero", "c": "", "src": "../workshop/shots/out/01_hero.jpg"}, {"t": "Old job", "c": "Glen pumped gas at the Fossoil. Six days in, Mechanics is at 7 and Welding at 6; Cooking is still 2.", "src": "../workshop/shots/out/02_old_job.jpg"}, {"t": "The plan", "c": "A flyer for the old station, and a note in the journal.", "src": "../workshop/shots/out/03_the_plan.jpg"}, {"t": "The route", "c": "World window, Maps tab. On a controller, hold one bumper and tap the other to zoom the camera: LB then RB zooms out, RB then LB zooms in.", "src": "../workshop/shots/out/04_the_route.jpg"}, {"t": "Driving in", "c": "Seat chooser and dashboard.", "src": "../workshop/shots/out/05_driving_in.jpg"}, {"t": "Fixing the car", "c": "World window, Vehicle tab.", "src": "../workshop/shots/out/06_fixing_the_car.jpg"}, {"t": "Barricading", "c": "Context menu on the front window, and the action bar.", "src": "../workshop/shots/out/07_barricading.jpg"}, {"t": "Cleaning up", "c": "Cleaning the floor with bleach and a dish towel.", "src": "../workshop/shots/out/08_cleaning_up.jpg"}, {"t": "Stocking shelves", "c": "Character window on the left, World window on the right, with three shelves and the ground.", "src": "../workshop/shots/out/09_stocking_shelves.jpg"}, {"t": "Open for business", "c": "The Fossoil's colors: light theme and blue accent, set from the buttons at the bottom of the window.", "src": "../workshop/shots/out/10_open_for_business.jpg"}, {"t": "Pumping gas", "c": "Filling a gas can at the pump, and the wagon's tank after refueling.", "src": "../workshop/shots/out/11_pumping_gas.jpg"}, {"t": "Customers", "c": "", "src": "../workshop/shots/out/12_customers.jpg"}, {"t": "Smoke break", "c": "", "src": "../workshop/shots/out/13_smoke_break.jpg"}, {"t": "Night shift", "c": "Dark theme with the blue accent, the dashboard at night, and the watch light.", "src": "../workshop/shots/out/14_night_shift.jpg"}, {"t": "Inventory and loot", "c": "In ZeD, open containers sit side by side as columns. Drag an item to another column to move it.", "src": "../workshop/shots/out/15_inventory_compare.jpg"}, {"t": "Item cards", "c": "Cards also open for generators, campfires, farm plots, troughs, padlocks and liquids.", "src": "../workshop/shots/out/16_item_cards.jpg"}, {"t": "Context menus", "c": "Choose the strip or the list in Options, ZeD setup.", "src": "../workshop/shots/out/17_context_menus.jpg"}, {"t": "Thermal tab", "c": "Character window, Thermal tab.", "src": "../workshop/shots/out/18_thermal.jpg"}, {"t": "Watches", "c": "The small watch on the belt shows the watch worn on the wrist.", "src": "../workshop/shots/out/19_watches.jpg"}, {"t": "Themes and accents", "c": "Three base themes and nine accent colors, shown on the Character window. Each window can also have its own accent.", "src": "../workshop/shots/out/20_themes.jpg"}, {"t": "Wallpapers", "c": "Desk, Settings menu: the picture on the monitor.", "src": "../workshop/shots/out/21_wallpapers.jpg"}, {"t": "Desk", "c": "", "src": "../workshop/shots/out/22_desk.jpg"}], "preview": "../workshop/thumbnail/preview.png", "imgs": {"customers.jpg": "../workshop/desc/customers.jpg", "desk.jpg": "../workshop/desc/desk.jpg", "h_before_you_subscribe.png": "../workshop/desc/h_before_you_subscribe.png", "h_controller.png": "../workshop/desc/h_controller.png", "h_credits.png": "../workshop/desc/h_credits.png", "h_getting_started.png": "../workshop/desc/h_getting_started.png", "h_hud.png": "../workshop/desc/h_hud.png", "h_maps.png": "../workshop/desc/h_maps.png", "h_menus.png": "../workshop/desc/h_menus.png", "h_options.png": "../workshop/desc/h_options.png", "h_reporting_a_problem.png": "../workshop/desc/h_reporting_a_problem.png", "h_requests_add_ons_and_translations.png": "../workshop/desc/h_requests_add_ons_and_translations.png", "h_server_admins.png": "../workshop/desc/h_server_admins.png", "h_windows.png": "../workshop/desc/h_windows.png", "hero.jpg": "../workshop/desc/hero.jpg", "item_cards.jpg": "../workshop/desc/item_cards.jpg", "smoke_break.jpg": "../workshop/desc/smoke_break.jpg", "stocking_shelves.jpg": "../workshop/desc/stocking_shelves.jpg", "the_route.jpg": "../workshop/desc/the_route.jpg", "themes.jpg": "../workshop/desc/themes.jpg", "title.png": "../workshop/desc/title.png", "full/01_hero.jpg": "../workshop/shots/out/01_hero.jpg", "full/02_old_job.jpg": "../workshop/shots/out/02_old_job.jpg", "full/03_the_plan.jpg": "../workshop/shots/out/03_the_plan.jpg", "full/04_the_route.jpg": "../workshop/shots/out/04_the_route.jpg", "full/05_driving_in.jpg": "../workshop/shots/out/05_driving_in.jpg", "full/06_fixing_the_car.jpg": "../workshop/shots/out/06_fixing_the_car.jpg", "full/07_barricading.jpg": "../workshop/shots/out/07_barricading.jpg", "full/08_cleaning_up.jpg": "../workshop/shots/out/08_cleaning_up.jpg", "full/09_stocking_shelves.jpg": "../workshop/shots/out/09_stocking_shelves.jpg", "full/10_open_for_business.jpg": "../workshop/shots/out/10_open_for_business.jpg", "full/11_pumping_gas.jpg": "../workshop/shots/out/11_pumping_gas.jpg", "full/12_customers.jpg": "../workshop/shots/out/12_customers.jpg", "full/13_smoke_break.jpg": "../workshop/shots/out/13_smoke_break.jpg", "full/14_night_shift.jpg": "../workshop/shots/out/14_night_shift.jpg", "full/15_inventory_compare.jpg": "../workshop/shots/out/15_inventory_compare.jpg", "full/16_item_cards.jpg": "../workshop/shots/out/16_item_cards.jpg", "full/17_context_menus.jpg": "../workshop/shots/out/17_context_menus.jpg", "full/18_thermal.jpg": "../workshop/shots/out/18_thermal.jpg", "full/19_watches.jpg": "../workshop/shots/out/19_watches.jpg", "full/20_themes.jpg": "../workshop/shots/out/20_themes.jpg", "full/21_wallpapers.jpg": "../workshop/shots/out/21_wallpapers.jpg", "full/22_desk.jpg": "../workshop/shots/out/22_desk.jpg"}};
 const esc = t => t.replace(/&/g, "&amp;").replace(/</g, "&lt;").replace(/>/g, "&gt;");
 const lb = document.getElementById("lb"), lbimg = document.getElementById("lbimg");
 function zoom(src) { lbimg.src = src; lb.classList.add("on"); }
